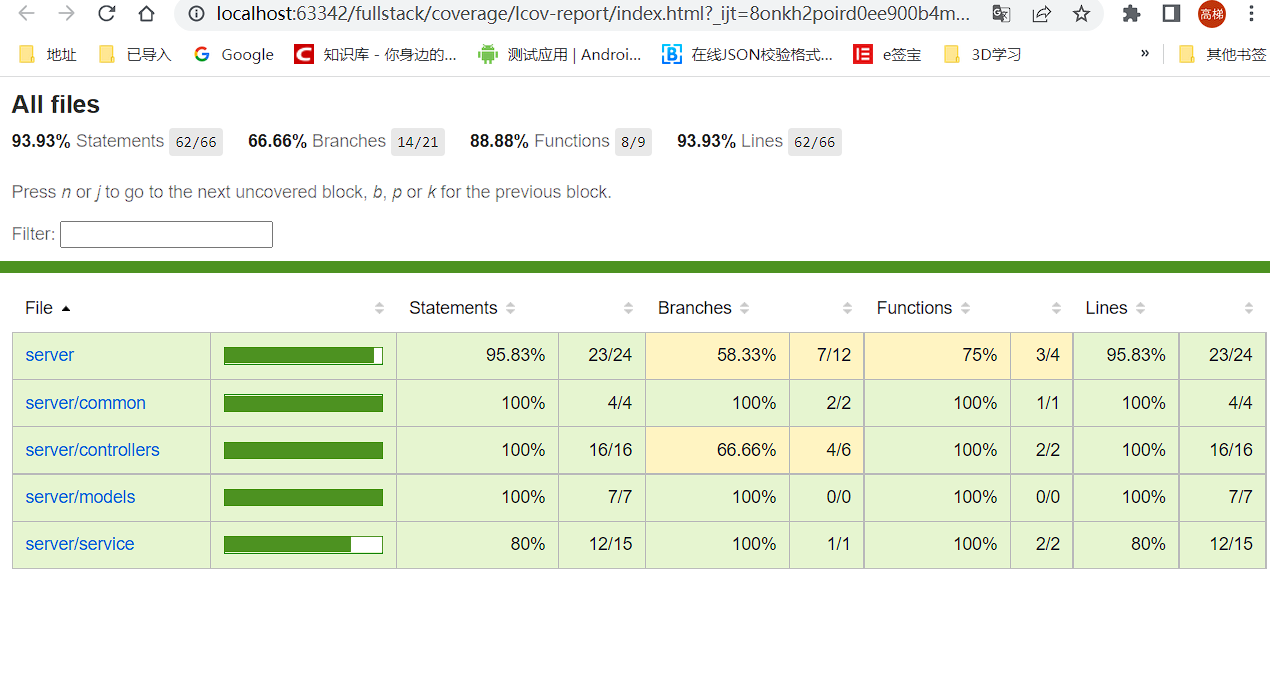
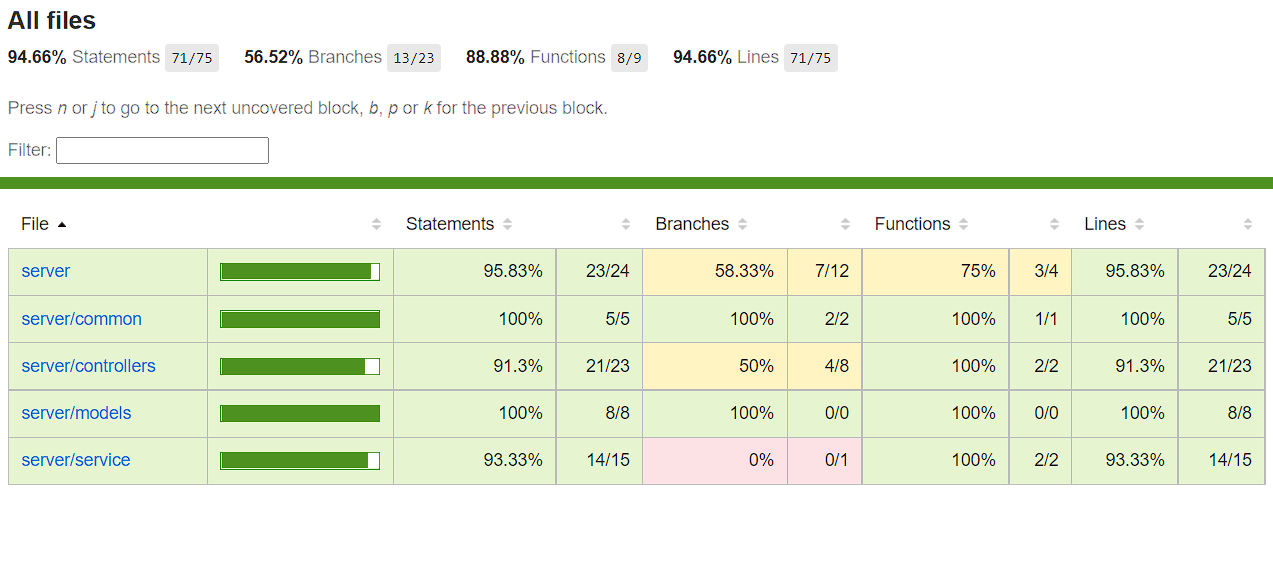
提交

Changed region(s): [[0.0, 0.0, 1.0, 0.8589], [0.1535, 0.0, 1.0, 0.1185]]

diff --git a/fullstack/test/api.test.ts b/fullstack/test/api.test.ts
@@ -15,7 +15,6 @@ describe("GET /api/long/to/short", () => {
             .expect(200)
             .then( (res)=> {
                 assert(res.body.code === 0)
-                console.log(res.body.data)
             });
     });
 
@@ -26,7 +25,6 @@ describe("GET /api/long/to/short", () => {
             .expect(200)
             .then( (res)=> {
                 assert(res.body.code === 0)
-                console.log(res.body.data)
             });
     });
 
@@ -36,7 +34,16 @@ describe("GET /api/long/to/short", () => {
             .expect(200)
             .then( (res)=> {
                 assert(res.body.code === 1)
-                console.log(JSON.stringify(res.body));
+            });
+    });
+
+    it("oriUrl is not url", async () => {
+        let oriUrl = 'hasdasdasdads';
+        return await request.get(`/api/long/to/short?oriUrl=${oriUrl}`)
+            .expect("Content-Type", /json/)
+            .expect(200)
+            .then( (res)=> {
+                assert(res.body.code === 1)
             });
     });
 });
@@ -49,17 +56,25 @@ describe("GET /api/short/to/long", () => {
             .expect(200)
             .then( (res)=> {
                 assert(res.body.code === 0)
-                console.log(res.body.data)
             });
     });
 
-    it("oriUrl is null", async () => {
+    it("shortUrl is null", async () => {
         return await request.get(`/api/short/to/long`)
             .expect("Content-Type", /json/)
             .expect(200)
             .then( (res)=> {
                 assert(res.body.code === 1)
-                console.log(JSON.stringify(res.body));
+            });
+    });
+
+    it("shortUrl is not url ", async () => {
+        let shortUrl = 'hdsadasd';
+        return await request.get(`/api/short/to/long?shortUrl=${shortUrl}`)
+            .expect("Content-Type", /json/)
+            .expect(200)
+            .then( (res)=> {
+                assert(res.body.code === 1)
             });
     });
 });

diff --git a/fullstack/src/server/controllers/shortDomainController.ts b/fullstack/src/server/controllers/shortDomainController.ts
@@ -1,5 +1,6 @@
 import {Request, Response, NextFunction} from "express";
 import ShortDomainService from "../service/shortDomainService";
+import {REGEXP} from "../common/constant";
 
 export default class ShortDomainController {
     /**
@@ -11,12 +12,17 @@ export default class ShortDomainController {
     public static async shortToLong(req: Request, res: Response, next: NextFunction) {
         try {
             // 此处应该有更多的参数效验， 演示demo就省略参数效验了。
-            const {shortUrl}= req.query;
+            let {shortUrl} = req.query;
+            shortUrl = shortUrl.toString();
+
             if(!shortUrl){
                 throw new Error('短地址shortUrl必须有');
             }
+            if(!new RegExp(REGEXP.HTTP).test(shortUrl)){
+                throw new Error('请输入一个正确的url!');
+            }
 
-            let result = await ShortDomainService.shortToLong(shortUrl.toString());
+            let result = await ShortDomainService.shortToLong(shortUrl);
 
             res.send({
                 code: 0,
@@ -41,12 +47,18 @@ export default class ShortDomainController {
     public static async longToShort(req: Request, res: Response, next: NextFunction) {
         try {
             // 此处应该有更多的参数效验， 演示demo就省略参数效验了。
-            const {oriUrl}= req.query;
+            let {oriUrl}= req.query;
+            oriUrl = oriUrl.toString();
+
             if(!oriUrl){
                 throw new Error('原地址oriUrl必须有');
             }
 
-            let result = await ShortDomainService.longToShort(oriUrl.toString());
+            if(!new RegExp(REGEXP.HTTP).test(oriUrl)){
+                throw new Error('请输入一个正确的url!');
+            }
+
+            let result = await ShortDomainService.longToShort(oriUrl);
 
             res.send({
                 code: 0,

diff --git a/fullstack/src/server/common/constant.ts b/fullstack/src/server/common/constant.ts
@@ -9,4 +9,8 @@ export enum STATE {
 
 export const CHARSET: string = "~9876543210ABCDEFGHIJKLMNOPQRSTU$#@%!abcdefghijklmnopqrstuvw-=";
 
+export const REGEXP = {
+    HTTP : /(http|https):\/\/\S*/
+}
+
 
